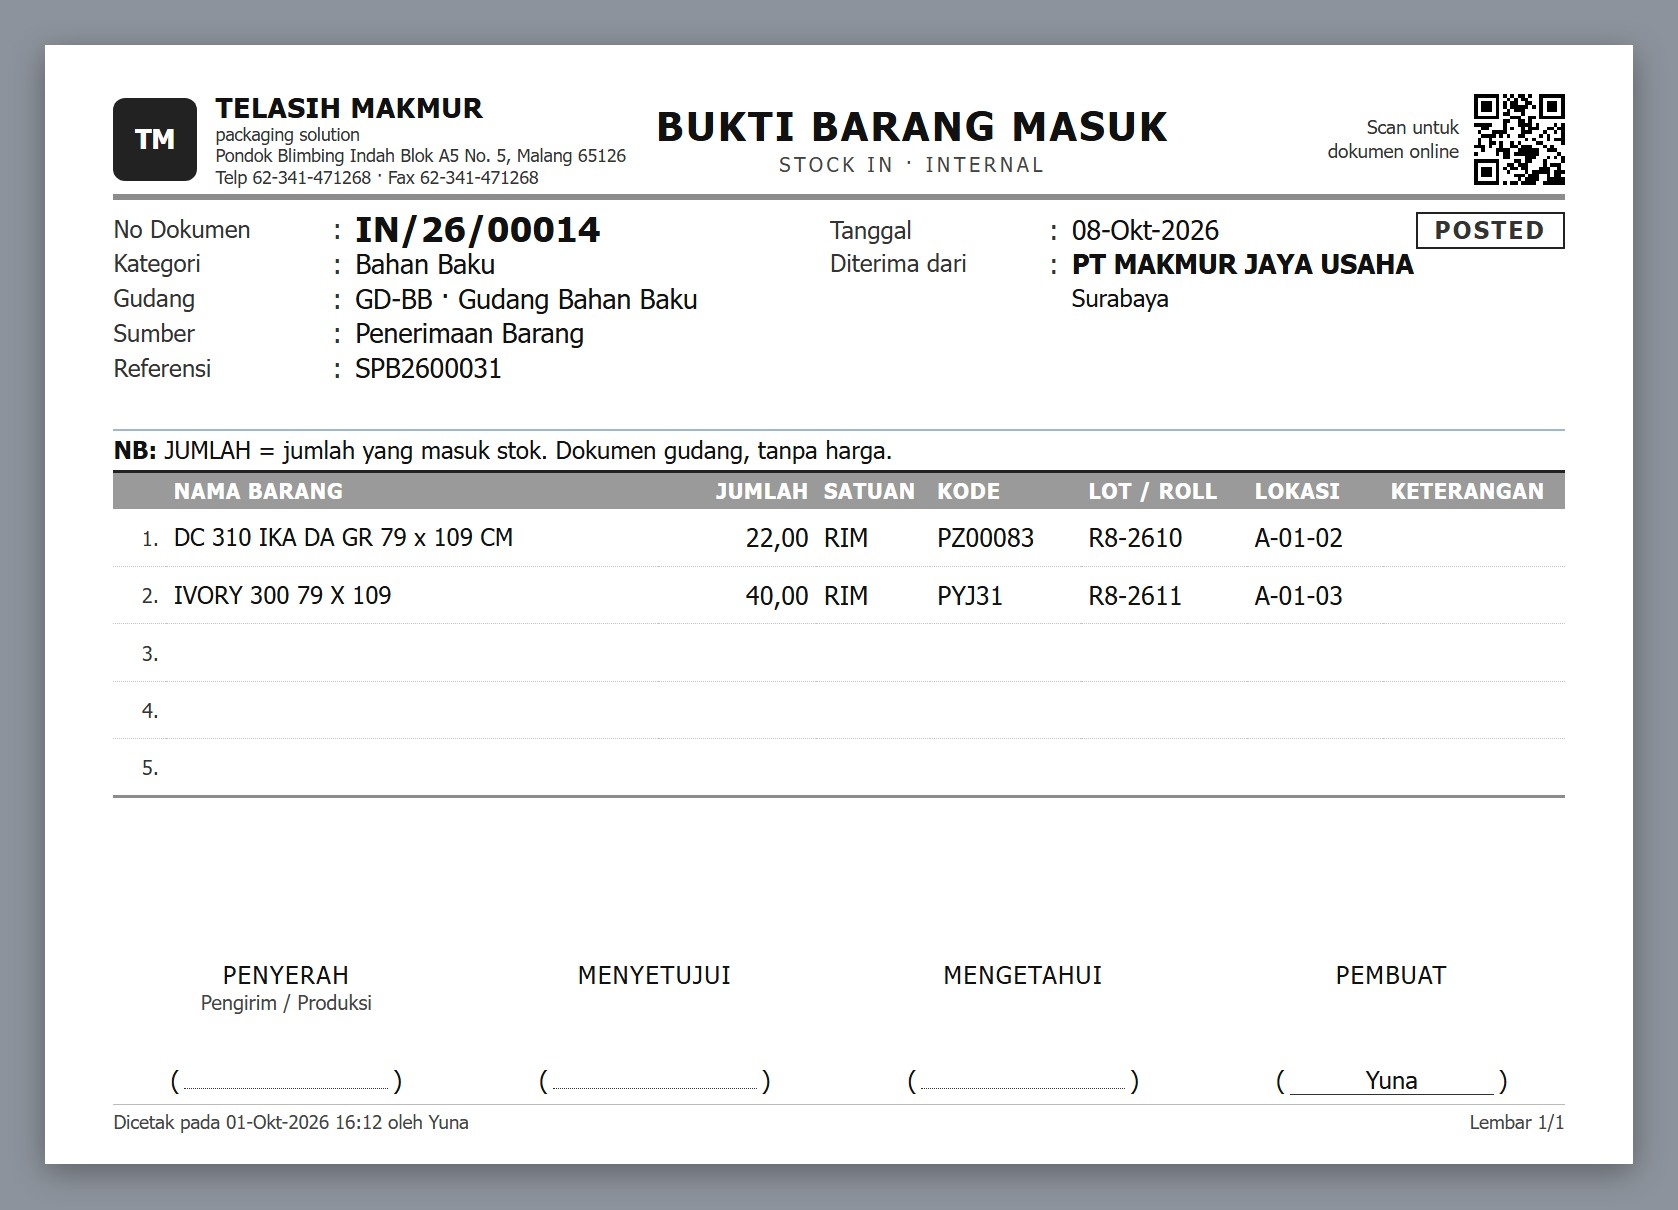
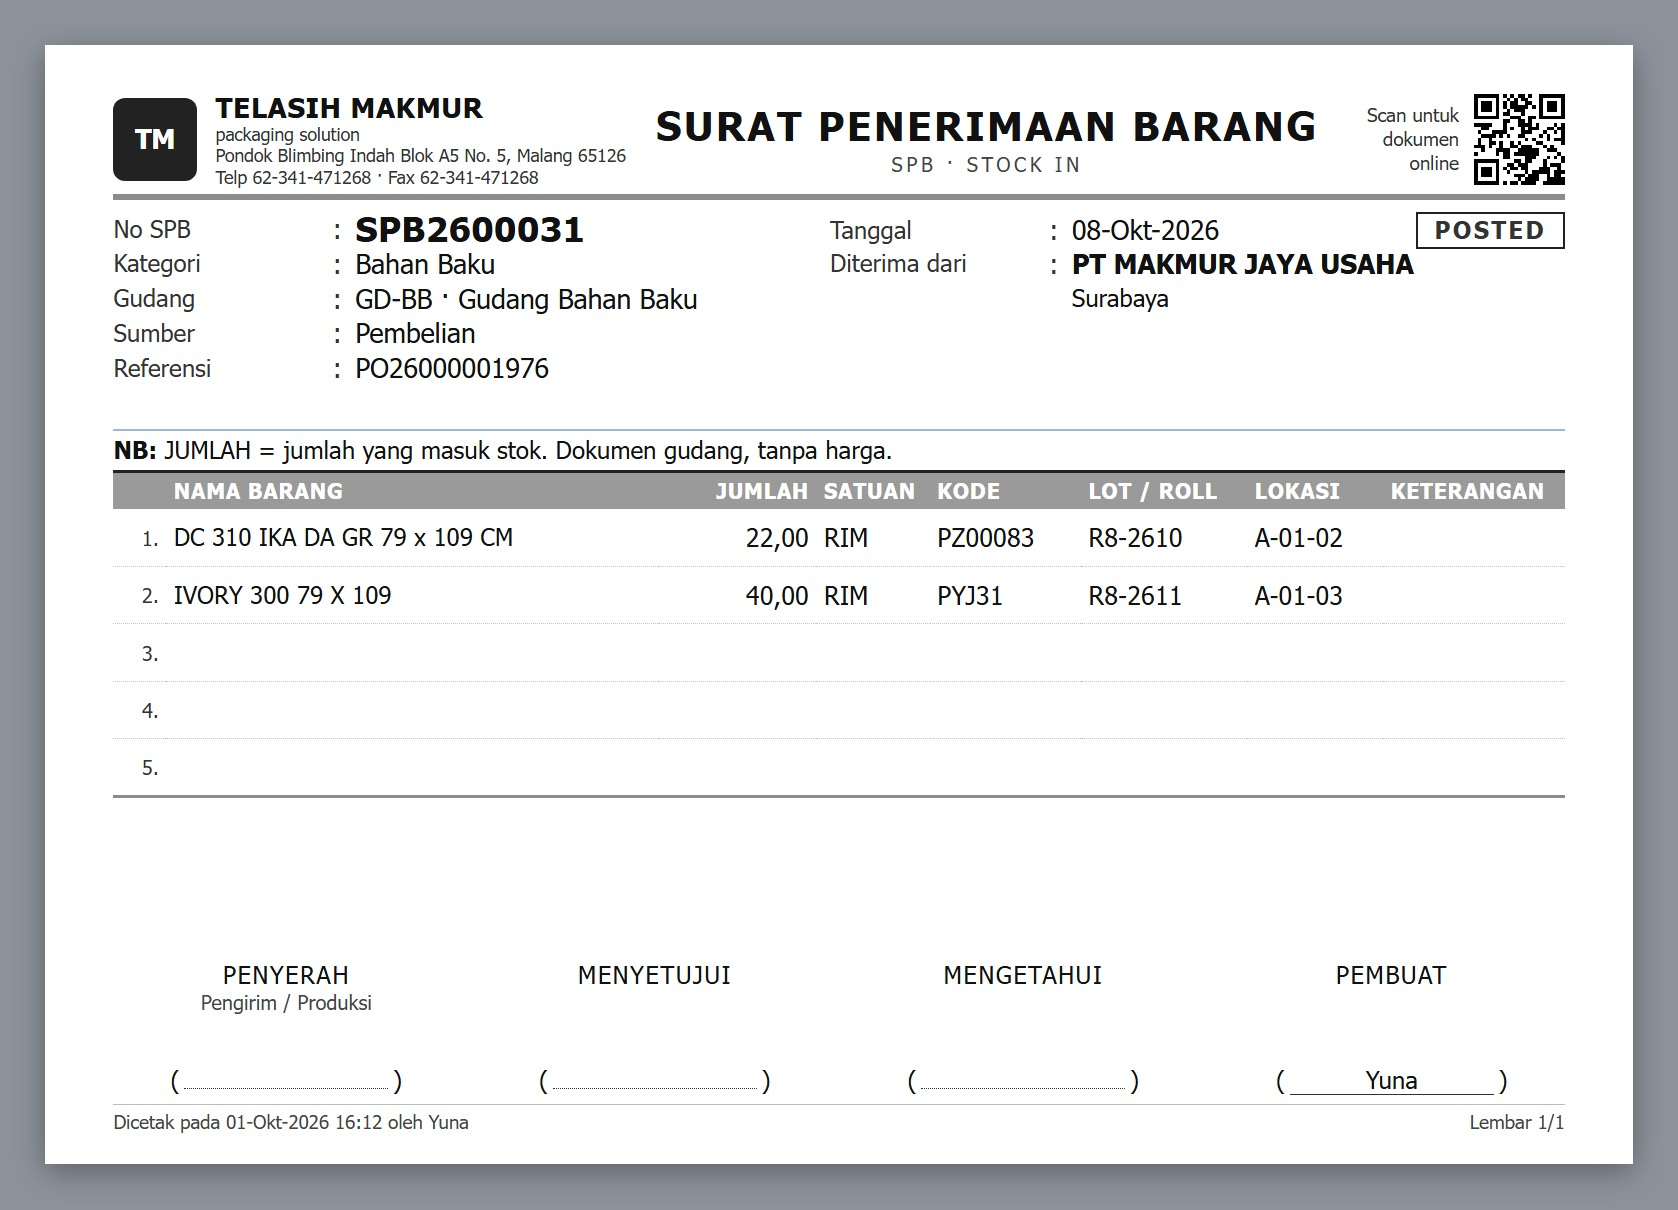
Print mockups: supplier invoice receipt replaces supplier bill, stock in named SPB (Surat Penerimaan Barang), down payment receipt added

diff --git a/docs/mockups/print_doc/documents.js b/docs/mockups/print_doc/documents.js
@@ -399,10 +399,11 @@ PrintDoc.register(class PettyCash extends PrintDoc {
 // Isi mengikuti field layar / tabel aplikasi; belum ada form kertas acuan. Menunggu review user; belum A. =====
 
 // Gudang (Bahan Baku / Barang Jadi / Setengah Jadi memakai format yang sama; Kategori di blok atas). Tanpa harga.
+// Nama dokumen barang masuk = SPB, Surat Penerimaan Barang (user 2026-10-02).
 PrintDoc.register(class StockIn extends PrintDoc {
-    static title = 'BUKTI BARANG MASUK';
-    static subtitle = 'Stock In &middot; Internal';
-    static numberLabel = 'No Dokumen';
+    static title = 'SURAT PENERIMAAN BARANG';
+    static subtitle = 'SPB &middot; Stock In';
+    static numberLabel = 'No SPB';
     static refs = [
         {key: 'category', label: 'Kategori'},
         {key: 'warehouse', label: 'Gudang'},
@@ -418,6 +419,7 @@ PrintDoc.register(class StockIn extends PrintDoc {
 PrintDoc.register(class StockOut extends PrintDoc.registry.StockIn {
     static title = 'BUKTI BARANG KELUAR';
     static subtitle = 'Stock Out &middot; Internal';
+    static numberLabel = 'No Dokumen';
     static refs = [
         {key: 'category', label: 'Kategori'},
         {key: 'warehouse', label: 'Gudang'},
@@ -433,6 +435,7 @@ PrintDoc.register(class StockOut extends PrintDoc.registry.StockIn {
 PrintDoc.register(class StockReturn extends PrintDoc.registry.StockIn {
     static title = 'RETUR DARI PRODUKSI';
     static subtitle = 'Return from Production &middot; Internal';
+    static numberLabel = 'No Dokumen';
     static refs = [
         {key: 'category', label: 'Kategori'},
         {key: 'warehouse', label: 'Gudang'},
@@ -528,24 +531,32 @@ PrintDoc.register(class JournalVoucher extends PrintDoc {
     }
 });
 
-// Tagihan dari supplier (hutang). Kop PPN bila tagihan ber-PPN.
-PrintDoc.register(class SupplierBill extends PrintDoc {
-    static title = 'TAGIHAN SUPPLIER';
-    static subtitle = 'Supplier Bill &middot; Internal';
-    static numberLabel = 'No Tagihan';
+// Tanda terima tagihan supplier (tukar faktur). Koreksi user 2026-10-02: yang dicetak bukan "Tagihan Supplier" melainkan
+// tanda terimanya. Satu baris = satu invoice supplier yang diserahkan; lembar ini dibawa pulang supplier sebagai bukti.
+PrintDoc.register(class SupplierInvoiceReceipt extends PrintDoc {
+    static title = 'TANDA TERIMA TAGIHAN';
+    static subtitle = 'Supplier Invoice Receipt';
+    static numberLabel = 'No Tanda Terima';
     static refs = [
-        {key: 'supplier_invoice', label: 'No Invoice Supplier'},
-        {key: 'tax_invoice', label: 'No Faktur Pajak'},
-        {key: 'po_no', label: 'No PO'},
-        {key: 'due_date', label: 'Jatuh Tempo', type: 'date'},
-        {key: 'payment_status', label: 'Pembayaran'},
+        {key: 'payment_term', label: 'Syarat Bayar'},
+        {key: 'pay_date', label: 'Rencana Bayar', type: 'date'},
+        {key: 'pay_method', label: 'Cara Bayar'},
     ];
-    static partyLabel = 'Supplier';
-    static side = {key: 'contact', label: 'Telp / UP'};
-    static nb = '<b>NB:</b>&nbsp;Dicocokkan dengan Purchase Order dan Penerimaan Barang sebelum dibayar.';
-    static nameLabel = 'NAMA BARANG / JASA';
-    static extra = [{key: 'spb_no', label: 'NO SPB', width: 21}, {key: 'po_line', label: 'BARIS PO', width: 17}];
-    static priced = true;
+    static partyLabel = 'Diterima dari';
+    static side = {key: 'handed_by', label: 'Diserahkan oleh', hand: true};
+    static nb = '<b>NB:</b>&nbsp;Tanda terima ini bukan bukti pembayaran. Dibayar sesuai Rencana Bayar setelah dicocokkan dengan PO dan SPB.';
+    static nameLabel = 'NO INVOICE SUPPLIER';
+    static qtyCols = false;
+    static extra = [{key: 'invoice_date', label: 'TGL INVOICE', width: 22, type: 'date'}, {key: 'po_no', label: 'NO PO', width: 30}, {key: 'tax_invoice', label: 'NO FAKTUR PAJAK', width: 38},
+        {key: 'amount', label: 'NILAI TAGIHAN', width: 30, type: 'money'}];
+    static receivers = [['Supplier', 'Yang menyerahkan']];
+    static internalLabels = ['Mengetahui', '', 'Penerima'];
+    static internal = ['', '', 'Finance'];
+
+    totals() {
+        const grand = Math.round(this.d.rows.reduce((t, r) => t + (+r.amount || 0), 0) * 100) / 100;
+        return {lines: [['TOTAL (IDR)', Fmt.num(grand), true]], grand};
+    }
 });
 
 // Tagihan uang muka ke customer.
@@ -567,6 +578,35 @@ PrintDoc.register(class DownPaymentInvoice extends PrintDoc {
     static extra = [{key: 'co_ref', label: 'NO CO', width: 21}, {key: 'percent', label: 'PERSEN', width: 17}];
     static priced = true;
     static receivers = [['Customer', 'Menerima tagihan']];
+});
+
+// Tanda terima uang muka (user 2026-10-02): bukti untuk customer bahwa uang muka sudah kami terima.
+PrintDoc.register(class DownPaymentReceipt extends PrintDoc {
+    static title = 'TANDA TERIMA UANG MUKA';
+    static subtitle = 'Down Payment Receipt';
+    static numberLabel = 'No Tanda Terima';
+    static refs = [
+        {key: 'invoice_no', label: 'No Tagihan'},
+        {key: 'co_no', label: 'No CO'},
+        {key: 'customer_po_no', label: 'No PO Customer'},
+        {key: 'pay_method', label: 'Cara Bayar'},
+        {key: 'received_at', label: 'Diterima di'},
+    ];
+    static partyLabel = 'Diterima dari';
+    static side = {key: 'contact', label: 'Telp / UP'};
+    static nb = 'Telah kami terima uang muka atas pesanan berikut:';
+    static nameLabel = 'URAIAN';
+    static qtyCols = false;
+    static extra = [{key: 'co_ref', label: 'NO CO', width: 28}, {key: 'order_value', label: 'NILAI PESANAN', width: 34, type: 'money'}, {key: 'percent', label: 'PERSEN', width: 20},
+        {key: 'amount', label: 'DITERIMA', width: 38, type: 'money'}];
+    static receivers = [['Customer', 'Yang menyerahkan']];
+    static internalLabels = ['Mengetahui', '', 'Penerima'];
+    static internal = ['', '', 'Finance'];
+
+    totals() {
+        const grand = Math.round(this.d.rows.reduce((t, r) => t + (+r.amount || 0), 0) * 100) / 100;
+        return {lines: [['TOTAL (IDR)', Fmt.num(grand), true]], grand};
+    }
 });
 
 // HR: permohonan cuti / sakit / izin. Tanpa kolom jumlah barang.

diff --git a/docs/mockups/print_doc/samples.js b/docs/mockups/print_doc/samples.js
@@ -241,7 +241,7 @@ Object.assign(SAMPLES, {
 const MJU = {name: 'PT MAKMUR JAYA USAHA', lines: ['Surabaya']}, MJU_UP = 'Bp. Anton (Sales)';
 Object.assign(SAMPLES, {
     StockIn: {
-        data: {...PRINTED, number: 'IN/26/00014', date: '2026-10-08', status: 'POSTED', category: 'Bahan Baku', warehouse: 'GD-BB · Gudang Bahan Baku', source: 'Penerimaan Barang', ref_no: 'SPB2600031',
+        data: {...PRINTED, number: 'SPB2600031', date: '2026-10-08', status: 'POSTED', category: 'Bahan Baku', warehouse: 'GD-BB · Gudang Bahan Baku', source: 'Pembelian', ref_no: 'PO26000001976',
             createdBy: 'Yuna', party: MJU,
             rows: [{name: 'DC 310 IKA DA GR 79 x 109 CM', qty: 22, unit: 'RIM', code: 'PZ00083', lot_no: 'R8-2610', location: 'A-01-02'},
                 {name: 'IVORY 300 79 X 109', qty: 40, unit: 'RIM', code: 'PYJ31', lot_no: 'R8-2611', location: 'A-01-03'}]},
@@ -295,16 +295,25 @@ Object.assign(SAMPLES, {
                 {name: 'Purchase Advance', code: '114300', narration: 'Uang muka CPO2600031', credit: 500000}]},
         more: [],
     },
-    SupplierBill: {
-        data: {...PRINTED, number: 'BILL2600027', date: '2026-10-09', status: 'OPEN', supplier_invoice: 'INV/MJU/10/0456', tax_invoice: '010.004-26.12345678', po_no: 'PO26000001976', due_date: '2026-11-08',
-            payment_status: 'Belum dibayar', contact: MJU_UP, ppn: 11, createdBy: 'Eka', party: MJU,
-            rows: [{name: 'DC 310 IKA DA GR 79 x 109 CM', qty: 22, unit: 'RIM', spb_no: 'SPB2600031', po_line: '1', price: 1567737.28, subtotal: 34490220.16}]},
+    SupplierInvoiceReceipt: {
+        data: {...PRINTED, number: 'TT2600027', date: '2026-10-09', status: 'RECEIVED', payment_term: '30 hari', pay_date: '2026-11-08', pay_method: 'Transfer', handed_by: 'Bp. Anton', ppn: 11,
+            createdBy: 'Eka', party: MJU,
+            notes: [['Lampiran', '☑ Invoice asli   ☑ Faktur Pajak   ☑ Surat Jalan / SPB   ☐ Kuitansi']],
+            rows: [{name: 'INV/MJU/10/0456', sub: 'SPB2600031', invoice_date: '2026-10-08', po_no: 'PO26000001976', tax_invoice: '010.004-26.12345678', amount: 38284144.38},
+                {name: 'INV/MJU/10/0461', sub: 'SPB2600034', invoice_date: '2026-10-09', po_no: 'PO26000001981', tax_invoice: '010.004-26.12345702', amount: 12765000}]},
         more: [],
     },
     DownPaymentInvoice: {
         data: {...PRINTED, number: 'DP2600003', date: '2026-10-01', status: 'OPEN', co_no: 'CO2600029', customer_po_no: 'PO-003-UAT', due_date: '2026-10-05', payment_term: 'DP 30%, pelunasan saat kirim', contact: 'PAK RUDI · +62 812-3567-289', ppn: 11,
             createdBy: 'Ehaningtias', party: {name: 'PAK RUDI LAWANG', code: '1130000001', lines: ['Jl. Argopuro no. 24', 'Lawang']},
             rows: [{name: 'Uang muka 30% atas Customer Order', sub: 'Folding Box Kosmetik Duplex · 500 PCS', qty: 1, unit: 'LS', co_ref: 'CO2600029', percent: '30%', price: 241764.71, subtotal: 241764.71}]},
+        more: [],
+    },
+    DownPaymentReceipt: {
+        data: {...PRINTED, number: 'TTDP2600003', date: '2026-10-03', status: 'RECEIVED', invoice_no: 'DP2600003', co_no: 'CO2600029', customer_po_no: 'PO-003-UAT', pay_method: 'Transfer', received_at: 'Bank',
+            contact: 'PAK RUDI · +62 812-3567-289', ppn: 11, createdBy: 'Eka', party: {name: 'PAK RUDI LAWANG', code: '1130000001', lines: ['Jl. Argopuro no. 24', 'Lawang']},
+            notes: [['Sisa tagihan', '626.170,59 — dilunasi saat kirim']],
+            rows: [{name: 'Uang muka atas Customer Order', sub: 'Folding Box Kosmetik Duplex · 500 PCS', co_ref: 'CO2600029', order_value: 894529.42, percent: '30%', amount: 268358.83}]},
         more: [],
     },
     LeaveRequest: {

diff --git a/docs/mockups/print_doc/printdoc.js b/docs/mockups/print_doc/printdoc.js
@@ -156,8 +156,8 @@ class PrintDoc {
         const [lk, la, lm] = this.f.internalLabels;
         const know = [lk, a, this.d.knownBy], agree = [la, b, this.d.approvedBy], maker = [lm, c, this.d.createdBy];
         // KETENTUAN user 2026-10-01 (jangan dibalik): dari kiri = pihak luar, lalu Menyetujui, Mengetahui, Pembuat di paling
-        // kanan. Hanya slot terisi yang dicetak, dibagi rata.
-        const used = [r1, r2, agree, know, maker].filter(Boolean);
+        // kanan. Hanya slot terisi yang dicetak, dibagi rata; slot internal dengan judul kosong tidak dicetak.
+        const used = [r1, r2, agree, know, maker].filter(x => x && x[0]);
         return `<section class="sign" style="grid-template-columns:repeat(${used.length},1fr)">${used.map(slot).join('')}</section>`;
     }
 

diff --git a/docs/globaluserrules.md b/docs/globaluserrules.md
@@ -366,5 +366,6 @@
 | 2026-10-02 | A.20: CO direct ada dua macam (repeat tanpa perubahan / percepatan Direksi); "back process" percepatan belum diputuskan. |
 | 2026-10-02 | C.24: cetakan baru dipasang dengan objek yang sama, **belum A** (menunggu koreksi user): Sales Invoice / Down Payment Invoice, bukti kas / bank (Payment Voucher), Surat Jalan Subkon. Contoh hasil aplikasi di `docs/mockups/print_doc/app/`. |
 | 2026-10-02 | C.24: mockup tahap 3 (**belum A, belum dipasang ke aplikasi**) untuk entry yang belum punya cetakan: Bukti Barang Masuk, Bukti Barang Keluar, Retur dari Produksi, Penyesuaian Stok / Stock Opname, Retur Pembelian, Work Order, Jurnal, Tagihan Supplier, Permohonan Cuti / Izin, Permohonan Tenaga Kerja; plus Tagihan Uang Muka (varian dengan kolom Persen; di aplikasi saat ini memakai format Sales Invoice). File `docs/mockups/print_doc/<nama>_a5.jpg`. Belum dirancang: Offering Letter (bentuk surat), slip gaji. |
+| 2026-10-02 | C.24 (koreksi user atas mockup tahap 3): yang dicetak **bukan "Tagihan Supplier" melainkan Tanda Terima Tagihan Supplier** (satu baris = satu invoice supplier yang diserahkan; bukan bukti bayar); dokumen barang masuk bernama **SPB, Surat Penerimaan Barang**; ditambah **Tanda Terima Uang Muka** (bukti untuk customer). Semua masih mockup, belum A. |
 | 2026-10-02 | **A.16 diganti:** semua jenis CO boleh di-Post to Production asal Confirmed + approved; costing published tidak disyaratkan; product tanpa Inquiry mendapat WO sederhana (tanpa routing / bahan). |
 | 2026-10-02 | C.29: kerapatan grid cukup per grid lewat tombol Density (tersimpan di browser); rencana setelan per user + pintu Configuration → Grid dibatalkan, bagian "Grid (segera)" di drawer Configuration menu lama dihapus. |
